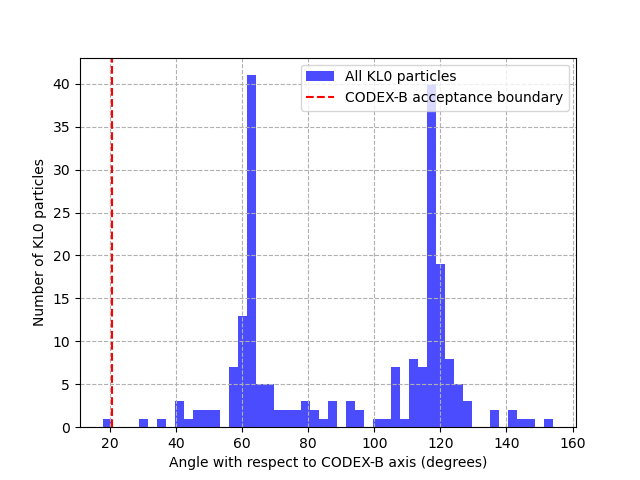
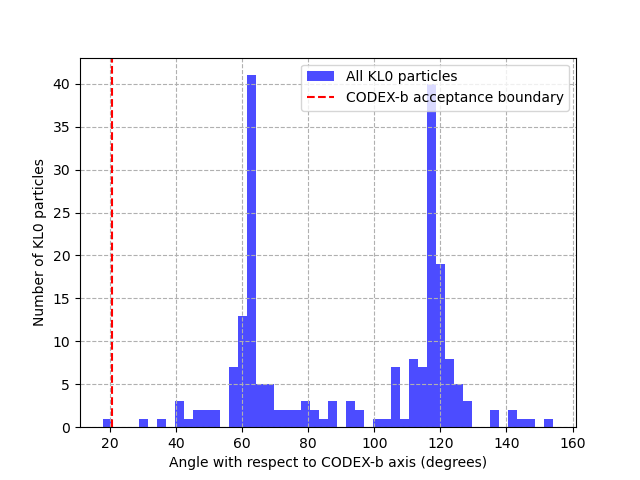
plots mus KL0s

Changed region(s): [[0.5312, 0.125, 0.875, 0.2188], [0.5625, 0.9375, 0.75, 0.9688]]

diff --git a/KL0_angulardistro.py b/KL0_angulardistro.py
@@ -1,19 +1,33 @@
 from functions import *
 
-path = '/home3/alejandro.rodriguez/DecFiles/DVntuple.root'
+pathKL0 = '/home3/alejandro.rodriguez/DecFiles/KL0ntuple.root'
+pathmup = '/home3/alejandro.rodriguez/DecFiles/mupntuple.root'
+pathmun = '/home3/alejandro.rodriguez/DecFiles/mumntuple.root'
 tree = 'MCDecayTreeTuple/MCDecayTree;1'
-columns = [
+columnsKL0 = [
     "KL0_TRUEP_E",
     "KL0_TRUEP_X",
     "KL0_TRUEP_Y",
     "KL0_TRUEP_Z",
     "KL0_TRUEPT",
 ]
+columnsmum = [  # gaudi saves mu+ as mu-, so same names
+    "muminus_TRUEP_E",
+    "muminus_TRUEP_X",
+    "muminus_TRUEP_Y",
+    "muminus_TRUEP_Z",
+    "muminus_TRUEPT",
+]
 
 
-df = read_root(path, tree, columns)
+df_KL0 = read_root(pathKL0, tree=tree, columns=columnsKL0)
+df_mup = read_root(pathmup, tree=tree, columns=columnsmum)
+df_mum = read_root(pathmun, tree=tree, columns=columnsmum)
 
-print(df.shape)
+# remove the particle identifier from the column names 
+df_KL0.columns = [col.replace('KL0_', '') for col in df_KL0.columns]
+df_mup.columns = [col.replace('muminus_', '') for col in df_mup.columns]
+df_mum.columns = [col.replace('muminus_', '') for col in df_mum.columns]
 
 # Define CODEX-B acceptance geometry, model the acceptance as a cone of radius d at distance r from the interaction point
 
@@ -36,32 +50,61 @@ codexb_axis = codexb_center / np.linalg.norm(codexb_center)
 
 theta_codexb = np.arccos(codexb_center[2] / np.linalg.norm(codexb_center))
 
+dfs = [df_KL0, df_mup, df_mum]
 
-df['x'] = df['KL0_TRUEP_X']
-df['y'] = df['KL0_TRUEP_Y']
-df['z'] = df['KL0_TRUEP_Z']
+for df in dfs:
 
-df['codex_angles'] = compute_angles(codexb_axis, df)
+    df['x'] = df['TRUEP_X']
+    df['y'] = df['TRUEP_Y']
+    df['z'] = df['TRUEP_Z']
 
-df['in_codex'] = df['codex_angles'] < codex_angular_aperture
-df_in_codex = df[df['in_codex']]
-df_not_in_codex = df[~df['in_codex']]
+    df['codex_angles'] = compute_angles(codexb_axis, df)
+    df['in_codex'] = df['codex_angles'] < codex_angular_aperture
 
-print(df.head())
 
-print(f'Number of KL0 particles in CODEX-B acceptance: {df_in_codex.shape[0]}')
-print(f'Number of KL0 particles out of CODEX-B acceptance: {df_not_in_codex.shape[0]}')
-print(f'Total KL0 particles: {df.shape[0]}')
-print(f'KL0_in/KL0_total: {df_in_codex.shape[0] / df.shape[0]}')
+print(f'Number of KL0 particles in CODEX-b acceptance: {df_KL0[df_KL0["in_codex"]].shape[0]}')
+print(f'Number of KL0 particles out of CODEX-b acceptance: {df_KL0[~df_KL0["in_codex"]].shape[0]}')
+print(f'Total KL0 particles: {df_KL0.shape[0]}')
+print(f'KL0_in/KL0_total: {df_KL0[df_KL0["in_codex"]].shape[0] / df_KL0.shape[0]}')
+
+print(f'Number of mu+ particles in CODEX-b acceptance: {df_mup[df_mup["in_codex"]].shape[0]}')
+print(f'Number of mu- particles in CODEX-b acceptance: {df_mum[df_mum["in_codex"]].shape[0]}')
+print(f'Total mu+ particles: {df_mup.shape[0]}')
+print(f'Total mu- particles: {df_mum.shape[0]}')
+print(f'mu+_in/mu+_total: {df_mup[df_mup["in_codex"]].shape[0] / df_mup.shape[0]}')
+print(f'mu-_in/mu-_total: {df_mum[df_mum["in_codex"]].shape[0] / df_mum.shape[0]}')
 
 # histogram of angles
 
-plt.figure()
-plt.hist(df['codex_angles'] * 180 / np.pi, bins=50, color='blue', alpha=0.7, label='All KL0 particles')
-plt.axvline(codex_angular_aperture * 180 / np.pi, color='red', linestyle='--', label='CODEX-B acceptance boundary')
-plt.xlabel('Angle with respect to CODEX-B axis (degrees)')
-plt.ylabel('Number of KL0 particles')
+# KL0
+plt.figure(figsize=(10, 6))
+plt.hist(df_KL0['codex_angles'], bins=50, range=(0, np.pi/2), alpha=0.7, label='KL0')
+plt.axvline(x=codex_angular_aperture, color='r', linestyle='--', label='CODEX-b acceptance')
+plt.xlabel('Angle with respect to CODEX-b axis (radians)')
+plt.ylabel('Number of particles')
+plt.title('Angular distribution of KL0 particles')
 plt.legend()
-plt.grid(linestyle='--')
+plt.grid(linestyle='--', alpha=0.7)
+plt.savefig('first_plots/KL0_angular_distribution.png')
 
-plt.savefig('first_plots/KL0_codex_angles_histogram.png')
+# mu+
+plt.figure(figsize=(10, 6))
+plt.hist(df_mup['codex_angles'], bins=50, range=(0, np.pi/2), alpha=0.7, label='mu+')
+plt.axvline(x=codex_angular_aperture, color='r', linestyle='--', label='CODEX-b acceptance')
+plt.xlabel('Angle with respect to CODEX-b axis (radians)')
+plt.ylabel('Number of particles')
+plt.title('Angular distribution of mu+ particles')
+plt.legend()
+plt.grid(linestyle='--', alpha=0.7)
+plt.savefig('first_plots/muplus_angular_distribution.png')
+
+# mu-
+plt.figure(figsize=(10, 6))
+plt.hist(df_mum['codex_angles'], bins=50, range=(0, np.pi/2), alpha=0.7, label='mu-')
+plt.axvline(x=codex_angular_aperture, color='r', linestyle='--', label='CODEX-b acceptance')
+plt.xlabel('Angle with respect to CODEX-b axis (radians)')
+plt.ylabel('Number of particles')
+plt.title('Angular distribution of mu- particles')
+plt.legend()
+plt.grid(linestyle='--', alpha=0.7)
+plt.savefig('first_plots/muminus_angular_distribution.png')

diff --git a/nombres_simulacion.py b/nombres_simulacion.py
@@ -1,6 +1,6 @@
 import uproot
 
-def export_column_names(path):
+def export_column_names(path, filename="lista_variables.txt"):
     with uproot.open(path) as f:
         # En DaVinci, la ruta suele ser 'Carpeta/NombreDelArbol'
         # Basándome en tu mensaje, vamos a probar esta ruta:
@@ -13,12 +13,12 @@ def export_column_names(path):
             # .keys() sobre un objeto 'tree' te da los nombres de las columnas
             columnas = tree.keys()
             
-            with open("lista_variables.txt", "w") as out:
+            with open(filename, "w") as out:
                 for col in columnas:
                     out.write(col + "\n")
             
             print(f"¡Listo! Se han encontrado {len(columnas)} variables.")
-            print("Las he guardado en el archivo: lista_variables.txt")
+            print(f"Las he guardado en el archivo: {filename}")
             
             # Mostrar las primeras 10 por pantalla para que veas el formato
             print("\nEjemplo de variables encontradas:")
@@ -32,6 +32,10 @@ def export_column_names(path):
 
 # Ejecutamos
 
-path = '/lustre/LHCb/alejandro.rodriguez/DecFiles/DVntuple.root'
-
-export_column_names(path)
+pathKL0 = '/home3/alejandro.rodriguez/DecFiles/KL0ntuple.root'
+pathmup = '/home3/alejandro.rodriguez/DecFiles/mupntuple.root'
+pathmun = '/home3/alejandro.rodriguez/DecFiles/mumntuple.root'
+ 
+export_column_names(pathKL0, "lista_variables_KL0.txt")
+export_column_names(pathmup, "lista_variables_mup.txt")
+export_column_names(pathmun, "lista_variables_mum.txt")
